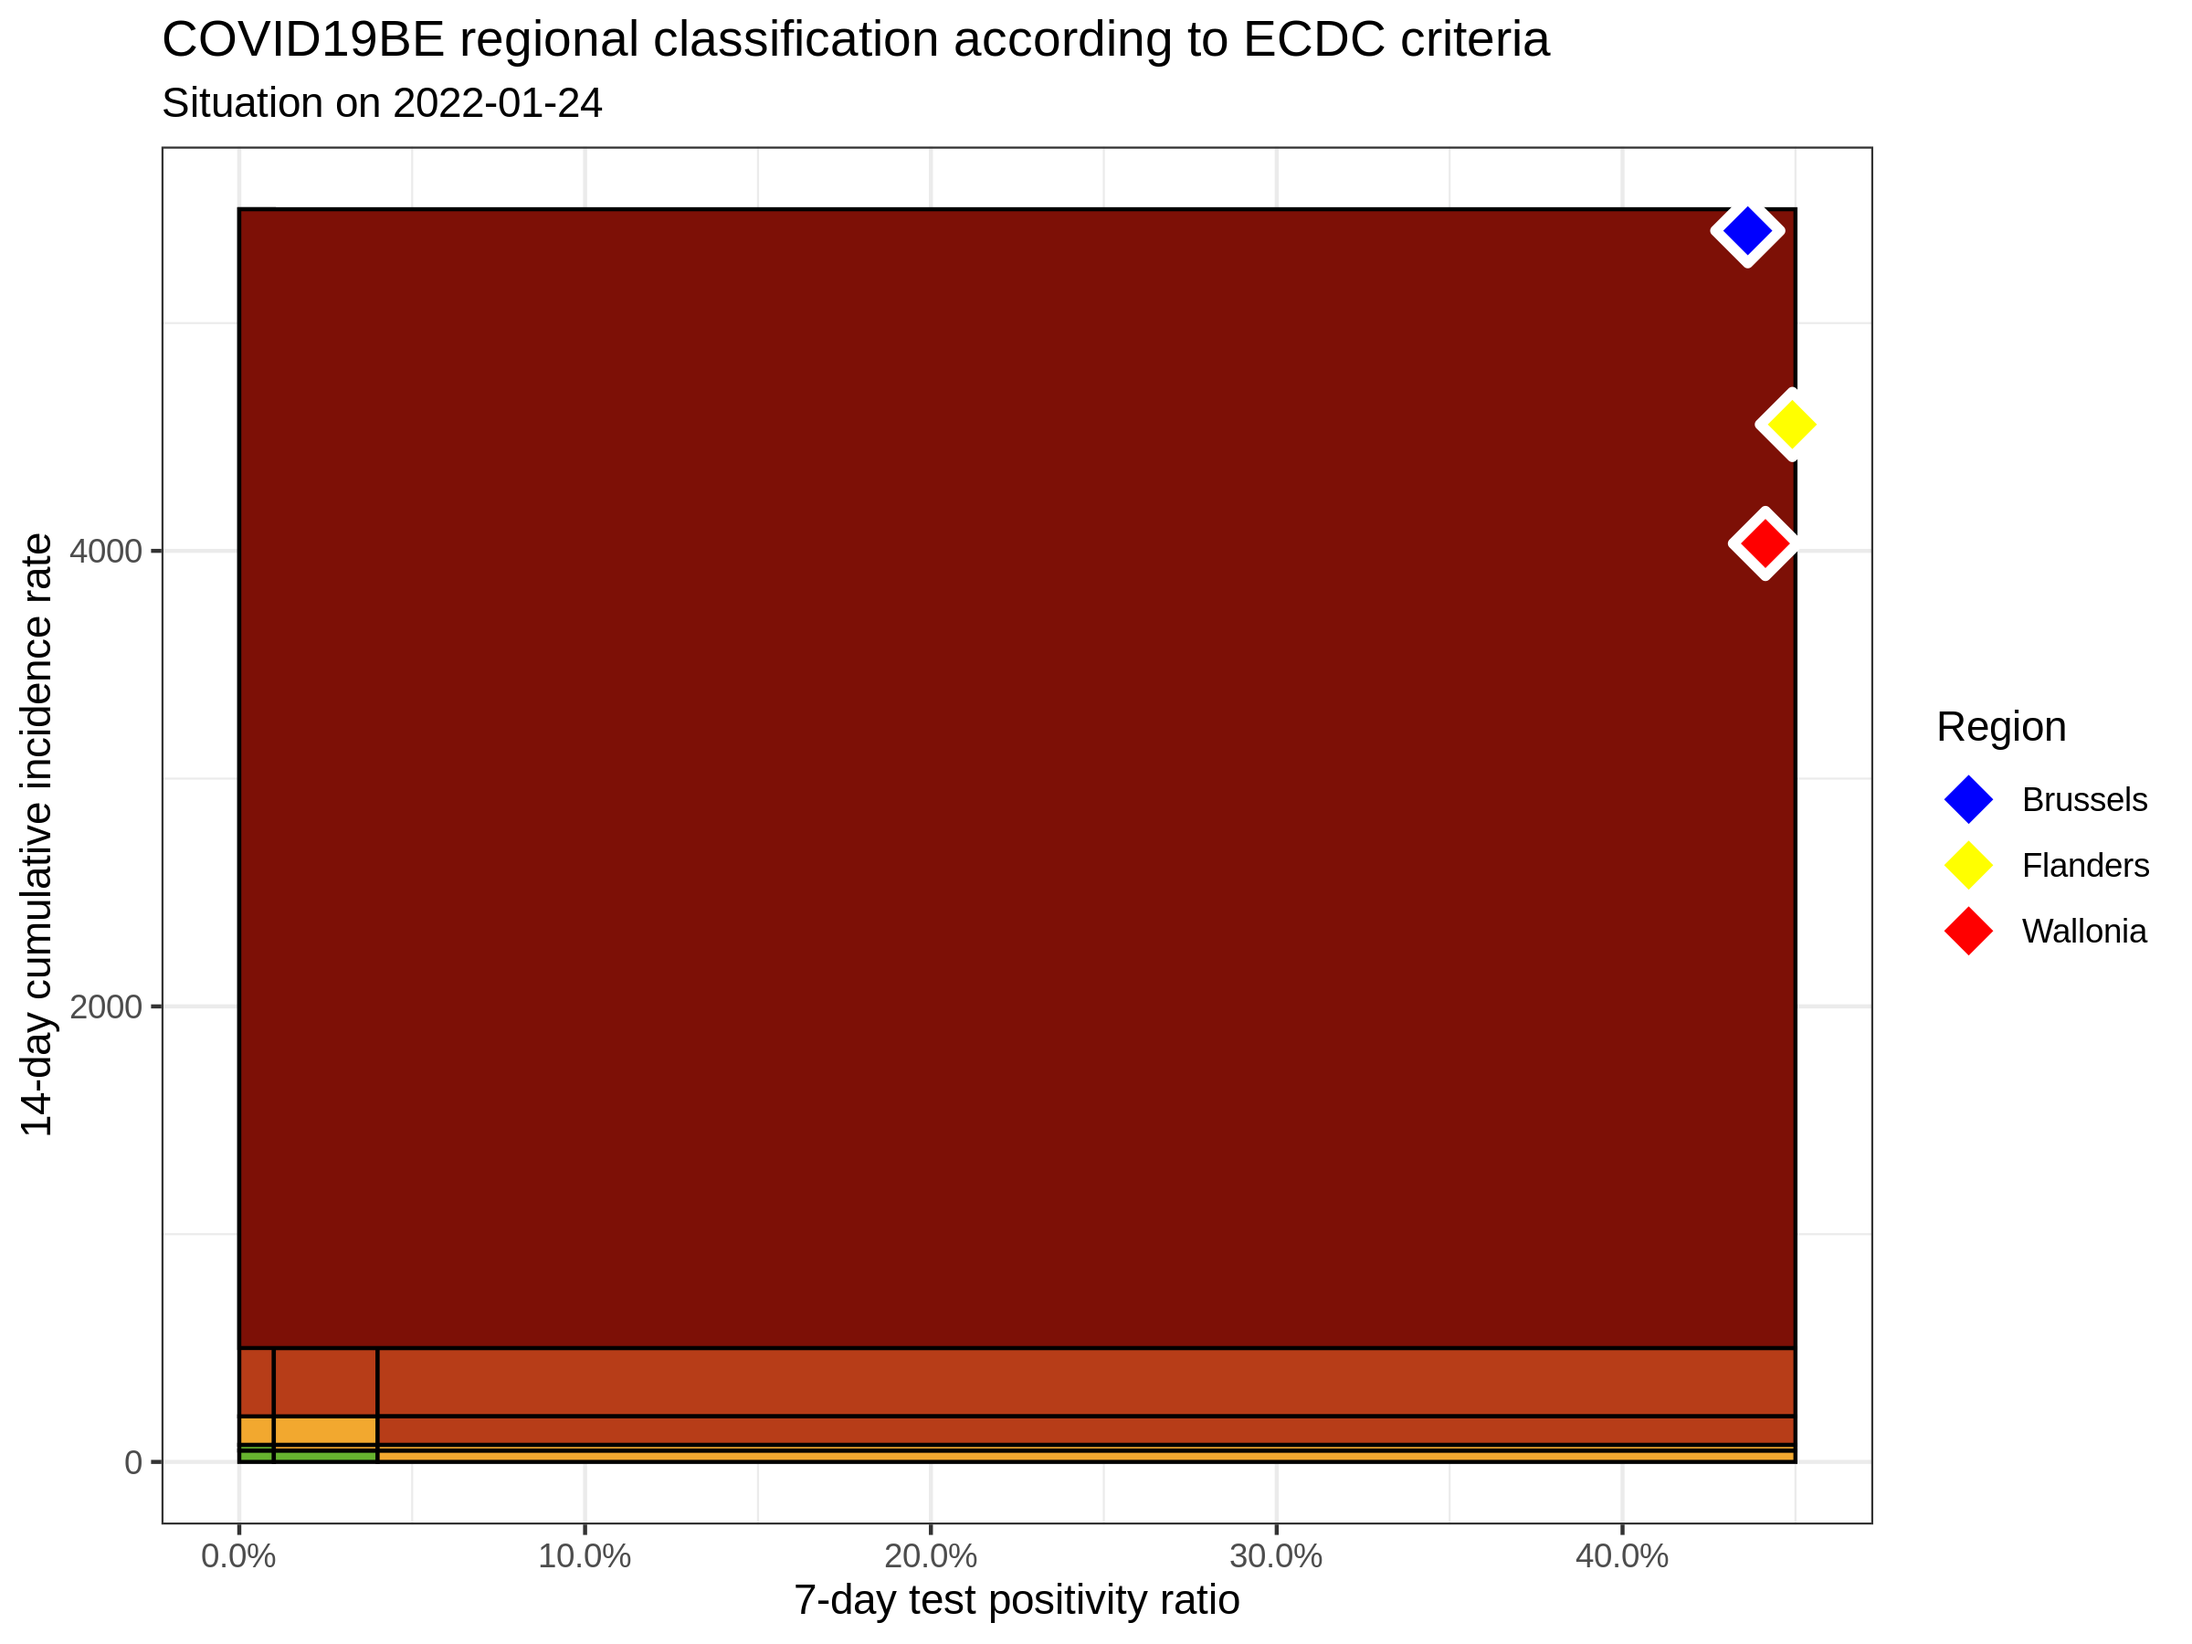
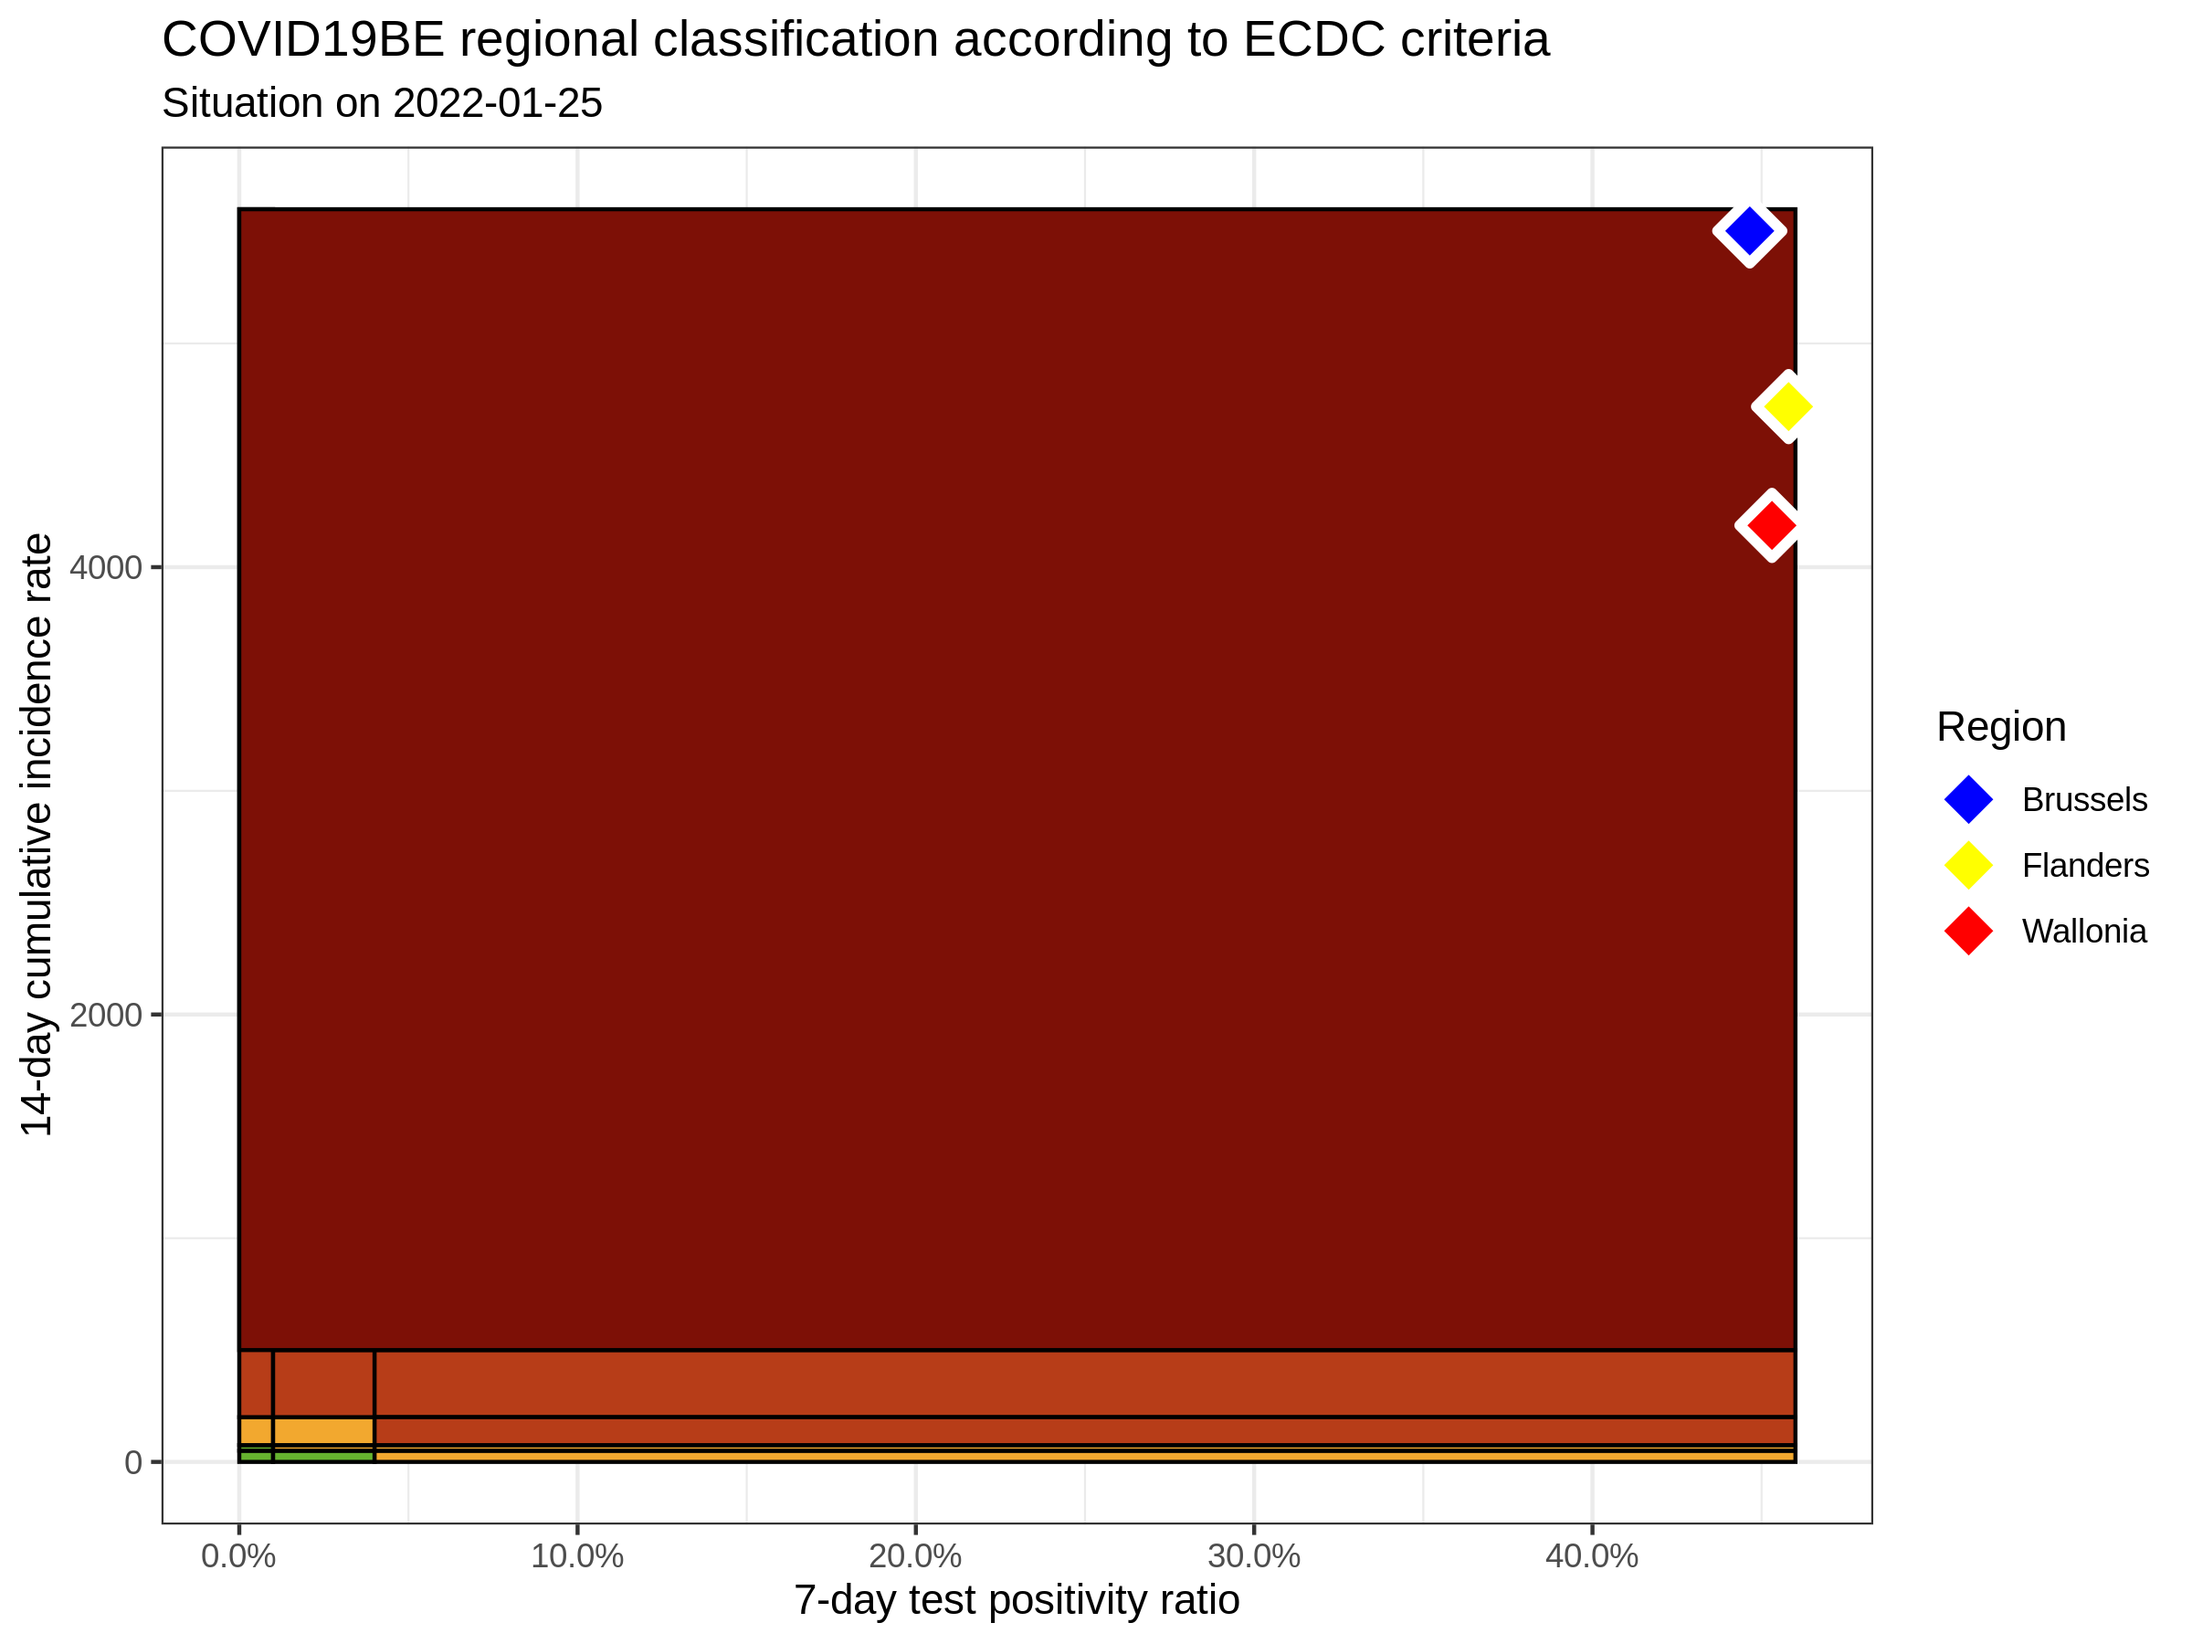
update situation

diff --git a/ecdc-trend/README.md b/ecdc-trend/README.md
@@ -11,9 +11,9 @@
 
 |          |  INC14 |   INC7 |   TST7 | TST\_POS7 | REGION   |     POP | INC14\_RT |       PR7 |        GR |
 | :------- | -----: | -----: | -----: | --------: | :------- | ------: | --------: | --------: | --------: |
-| Brussels |  65947 |  37105 |  89540 |     39059 | Brussels | 1219970 |  5405.625 | 0.4362184 | 0.2864919 |
-| Flanders | 303047 | 197188 | 444626 |    199686 | Flanders | 6653062 |  4555.000 | 0.4491100 | 0.8627419 |
-| Wallonia | 147108 |  95705 | 217334 |     95915 | Wallonia | 3648206 |  4032.338 | 0.4413253 | 0.8618563 |
+| Brussels |  67134 |  37902 |  90692 |     40494 | Brussels | 1219970 |  5502.922 | 0.4465002 | 0.2965928 |
+| Flanders | 313865 | 203974 | 464993 |    212953 | Flanders | 6653062 |  4717.602 | 0.4579703 | 0.8561484 |
+| Wallonia | 152731 |  99941 | 230943 |    104631 | Wallonia | 3648206 |  4186.469 | 0.4530598 | 0.8931805 |
 
 ### Read more
 
